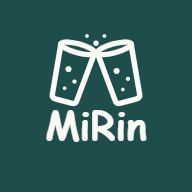
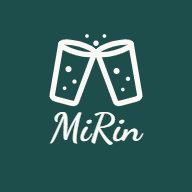
アイコンの「MiRin」文字を実際に筆記体(Dancing Script)で描画されるよう修正
前回書き出したPNGは、SVGをcanvasにラスタライズする際にページ側で
読み込んだWebフォントが反映されず、代替フォントで描画されてしまって
いた。フォントファイルをbase64でSVGに直接埋め込むことで、ラスタライズ
時にも確実に筆記体で描画されるようにした。

Changed region(s): [[0.2188, 0.5625, 0.7812, 0.7812]]

diff --git a/app.jsx b/app.jsx
@@ -204,7 +204,7 @@ const HEADER_TOP_OFFSET = `max(${HEADER_CLOCK_FONT_SIZE}px, env(safe-area-inset-
 // コード自体を変更した日時(固定値)。マスタ設定画面にのみ表示する。
 // コードを変更するたびに、この値を手動で現在日時に更新すること
 // (CACHE_VERSIONのインクリメントとあわせて更新する運用)。
-const APP_LAST_UPDATED = "2026/09/08 13:59";
+const APP_LAST_UPDATED = "2026/09/08 14:09";
 
 // 商品追加/編集モーダルのカテゴリ選択で常に表示するデフォルトのカテゴリ。
 // 既存商品が使っている他のカテゴリ(「+新規」で追加したものを含む)は

diff --git a/service-worker.js b/service-worker.js
@@ -1,5 +1,5 @@
 // このバージョン番号を上げると、次回オンライン時に新しいキャッシュへ切り替わる
-const CACHE_VERSION = "pos-app-cache-v108";
+const CACHE_VERSION = "pos-app-cache-v109";
 
 // アプリの動作に必要な全ファイル(App Shell)
 // CDNのReact/Babelも含めてキャッシュし、完全オフラインで起動できるようにする
